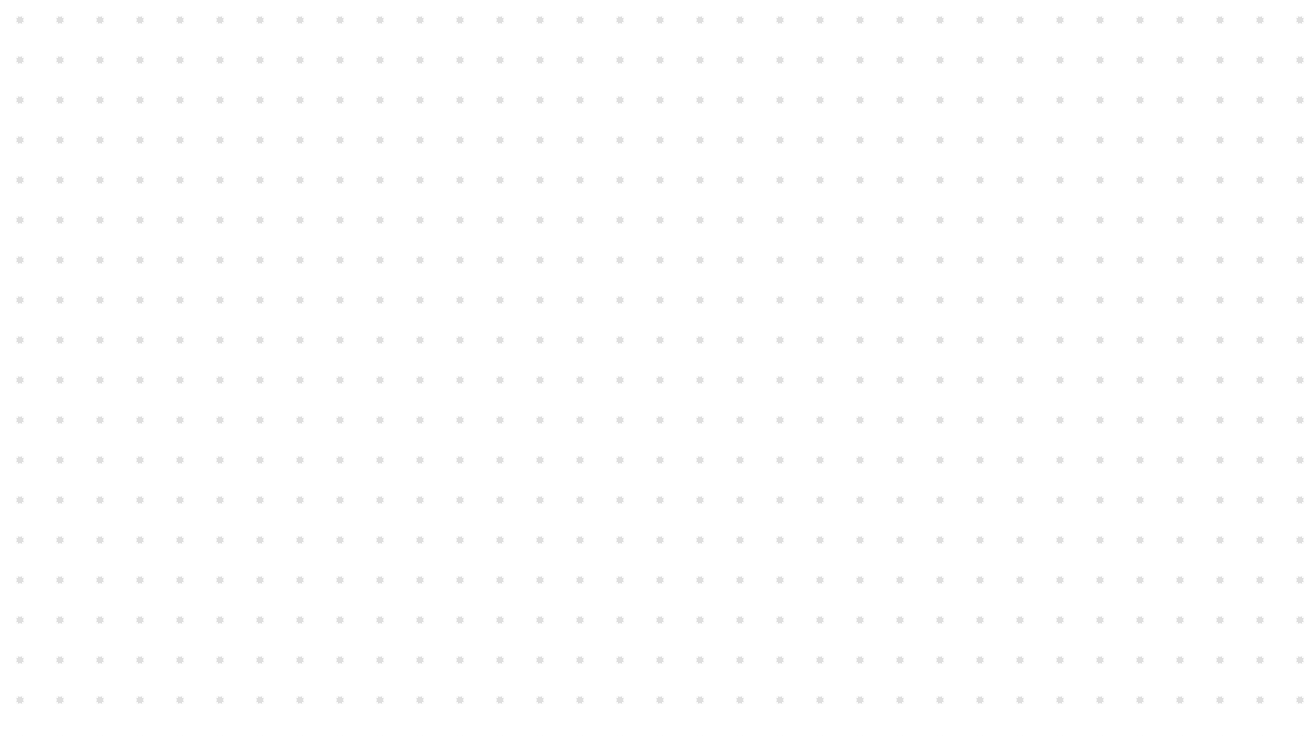
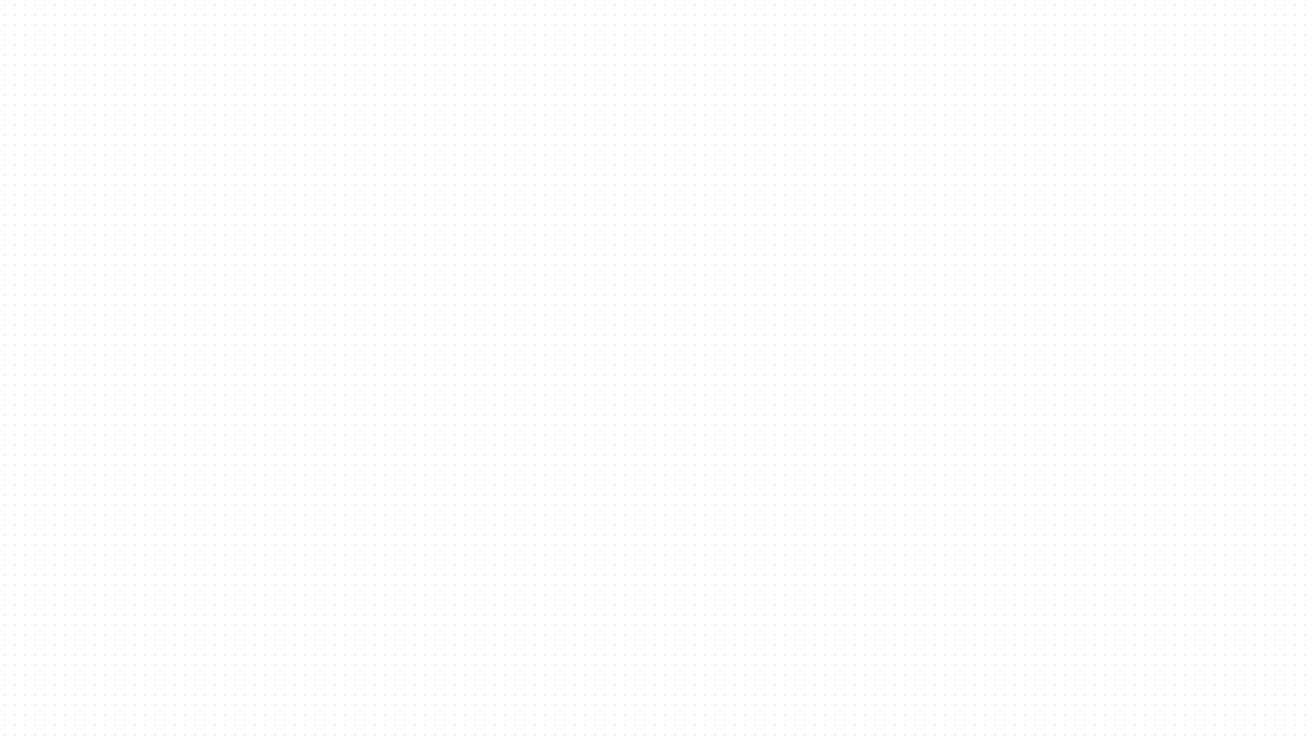
static hero cover actually disappears now!

diff --git a/javascript/case-study-links.js b/javascript/case-study-links.js
@@ -112,35 +112,3 @@ document.addEventListener("DOMContentLoaded", () => {
     tocTargets.forEach(el => tocObserver.observe(el));
   }
 });
-
-
-  // ===================== Hero Poster → Lottie Swap =====================
-  
-  /*
-  const prefersReducedMotion = window.matchMedia('(prefers-reduced-motion: reduce)').matches;
-  const heroPoster = document.querySelector('.hero-poster');
-  const heroLottie = document.querySelector('.hero .lottie-anim');
-
-  if (heroPoster && heroLottie && !prefersReducedMotion) {
-    window.addEventListener('load', () => {
-      // dynamically load lottie script
-      const script = document.createElement('script');
-      script.src = '/lottie-player/lottie_light.min.js';
-      script.async = true;
-      script.onload = () => {
-        const inst = window.lottie.loadAnimation({
-          container: heroLottie,
-          renderer: "svg",
-          loop: true,
-          autoplay: true,
-        });
-
-        inst.addEventListener("DOMLoaded", () => {
-          heroPoster.style.display = "none";   // hide poster
-
-        });
-      };
-      document.head.appendChild(script);
-    });
-  }
-  */

diff --git a/case-studies/designlab.html b/case-studies/designlab.html
@@ -49,7 +49,7 @@
 
     <div class="hero">
         <div style="position: relative; max-width: 1312px; margin: 0 auto;">
-            <img class="hero-poster" style="position: absolute; top: 0; left: 0; aspect-ratio: 16/9; object-fit: cover; z-index: -1;"
+            <img class="hero-poster" style="position: absolute; top: 0; left: 0; width: 100%; aspect-ratio: 16/9; object-fit: cover;"
                 src="/images/dlab-hero-cover.png" 
                 alt="Hero animation poster"
                 width="1312" height="738"
@@ -61,7 +61,7 @@
                 data-loop="true" 
                 data-autoplay="true" 
                 data-renderer="svg"
-                decoding="async">
+                decoding="async" style="z-index: 2;">
             </div>
         </div>
 

diff --git a/javascript/lottie-loading.js b/javascript/lottie-loading.js
@@ -106,6 +106,17 @@
             el.animInstance = inst;
             el.hidden = false; // reveal once ready
 
+            // 👇 Hide poster if this is the hero anim
+            if (el.classList.contains("hero") || el.closest(".hero")) {
+              inst.addEventListener("DOMLoaded", () => {
+                const heroPoster = document.querySelector(".hero-poster");
+                if (heroPoster) {
+                  heroPoster.style.opacity = "0"; // fade out
+                  setTimeout(() => (heroPoster.style.display = "none"), 300);
+                }
+              });
+            }
+
             if (el.dataset.autoplay === "true") tryStart(el);
           });
         } catch (err) {
